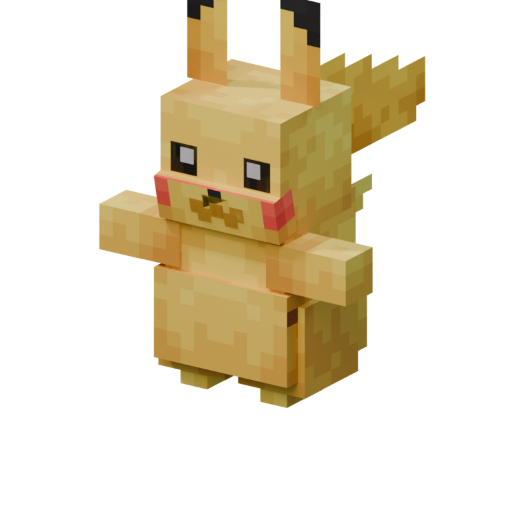
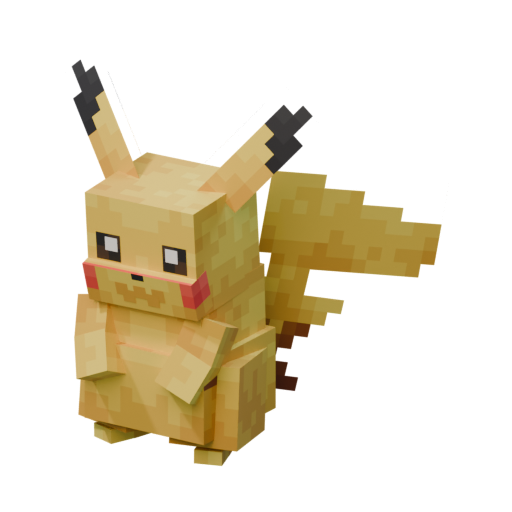
fix(descargas): la ruta directa salta también con "Request timed out"
helios-core escribe el TimeoutError de got como "Request timed out (Nms)."
sin el código ETIMEDOUT, así que ni SC_RE_RED ni scEsCorteDeRed lo
reconocían: el jugador bloqueado por LaLiga veía el mensaje genérico y el
launcher no probaba nunca directo.servidorcobblemon.es (informe de soporte
del 18/10, "cambios automaticos 0/2").

feat(perfiles): Raichu PRO, Pikachu LITE y Pichu SUPER LITE en el selector,
renderizados desde los modelos oficiales de Cobblemon 1.8.0 en su pose de
reposo (ground_idle) en lugar de la pose en T.

diff --git a/app/assets/js/scripts/landing.js b/app/assets/js/scripts/landing.js
@@ -1220,7 +1220,11 @@ const SC_RE_TLS_CADENA = /SELF_SIGNED_CERT_IN_CHAIN|UNABLE_TO_GET_ISSUER_CERT|UN
 // normal contestando en el puerto 443: un portal cautivo (wifi de hotel o de tren
 // antes de identificarse) o una página de bloqueo sin TLS. No es un certificado:
 // es que no llegamos, y caía al mensaje de "comprueba el disco".
-const SC_RE_RED = /ETIMEDOUT|ENOTFOUND|ECONNREFUSED|ECONNRESET|EAI_AGAIN|ENETUNREACH|EHOSTUNREACH|ERR_SSL_WRONG_VERSION_NUMBER|ERR_SSL_PACKET_LENGTH_TOO_LONG|EPROTO/i
+// "timed out": helios-core convierte el TimeoutError de got en "Request timed out
+// (5006ms)." SIN el código ETIMEDOUT. Es justo lo que deja Movistar al tirar los
+// paquetes en un partido, y sin esto la ruta directa no se probaba nunca (18/10/2026,
+// "cambios automaticos 0/2" en el informe de soporte).
+const SC_RE_RED = /ETIMEDOUT|ENOTFOUND|ECONNREFUSED|ECONNRESET|EAI_AGAIN|ENETUNREACH|EHOSTUNREACH|ERR_SSL_WRONG_VERSION_NUMBER|ERR_SSL_PACKET_LENGTH_TOO_LONG|EPROTO|timed out/i
 
 // Programas que abren el HTTPS del equipo firmándolo con su propia autoridad. Se
 // reconocen por una palabra del nombre del emisor y no por el nombre exacto,
@@ -2385,7 +2389,7 @@ function scActivarModoLento(motivo){
  * hijo, así que se mira el texto completo con scErrorLegible.
  */
 function scEsCorteDeRed(err){
-    return /ECONNRESET|ETIMEDOUT|ENOTFOUND|EAI_AGAIN|ENETUNREACH|ENETDOWN|EHOSTUNREACH|ECONNABORTED|EPIPE|socket hang up|RequestError|ReadError|TimeoutError/i
+    return /ECONNRESET|ETIMEDOUT|ENOTFOUND|EAI_AGAIN|ENETUNREACH|ENETDOWN|EHOSTUNREACH|ECONNABORTED|EPIPE|socket hang up|RequestError|ReadError|TimeoutError|timed out/i
         .test(scErrorLegible(err))
 }
 

diff --git a/app/assets/js/scripts/overlay.js b/app/assets/js/scripts/overlay.js
@@ -343,7 +343,8 @@ async function populateServerListings(){
         const principal = parentesis > 0 ? corto.slice(0, parentesis).trim() : corto
         const apellido = parentesis > 0 ? corto.slice(parentesis) : ''
         const id = String(serv.rawServer.id || '')
-        const pokemon = /superlite/i.test(id) ? 'pikachu' : (/lite/i.test(id) ? 'bulbasaur' : 'eevee')
+        // La línea evolutiva marca el peso del perfil: Raichu PRO, Pikachu LITE, Pichu SUPER LITE.
+        const pokemon = /superlite/i.test(id) ? 'pichu' : (/lite/i.test(id) ? 'pikachu' : 'raichu')
         htmlString += `<button class="serverListing" servid="${sc$escapeHtml(id)}" ${serv.rawServer.id === giaSel ? 'selected' : ''} title="${sc$escapeHtml(nombre)}" aria-label="${sc$escapeHtml(nombre)}">
             <img class="serverListingImg" src="./assets/images/ui/pokemon-${pokemon}@2x.png" alt=""/>
             <div class="serverListingDetails">

diff --git a/docs/DISTRIBUCION.md b/docs/DISTRIBUCION.md
@@ -452,7 +452,7 @@ Cómo se reconoce en un informe de soporte:
 
 | `displayable` en el informe | Qué es |
 |---|---|
-| `ETIMEDOUT`, `ENOTFOUND`, `ENETUNREACH` | **El bloqueo.** Los paquetes no llegan |
+| `ETIMEDOUT`, `ENOTFOUND`, `ENETUNREACH`, `Request timed out (5006ms).` | **El bloqueo.** Los paquetes no llegan. El último es el `TimeoutError` de got tal como lo escribe helios-core, sin código: hasta la 1.16.10 no se reconocía y la ruta directa no saltaba (informe del 18/10/2026, "cambios automaticos 0/2") |
 | `DEPTH_ZERO_SELF_SIGNED_CERT` y otros de certificado | **También el bloqueo**, en Digi: contesta por la IP bloqueada con su propio certificado. O un antivirus o proxy que abre el HTTPS. El launcher lo distingue (ver SC-04 en [ERRORES.md](ERRORES.md)) |
 
 ### Cómo lo esquiva el launcher (desde 1.5.15, automático desde 1.6.1)
